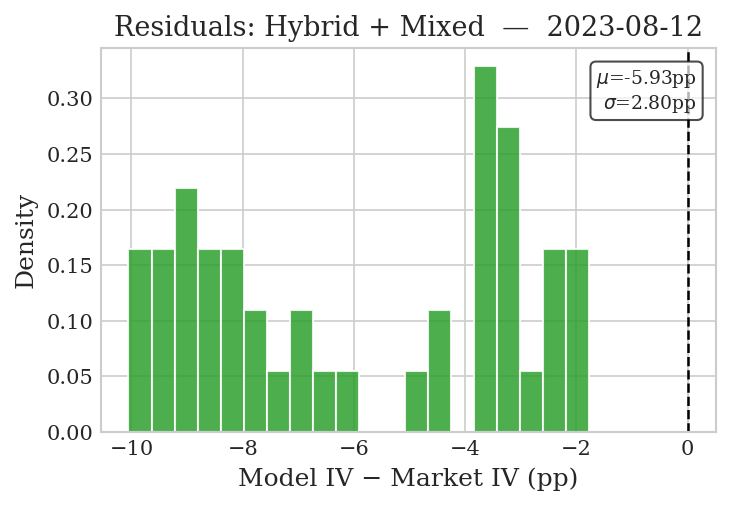
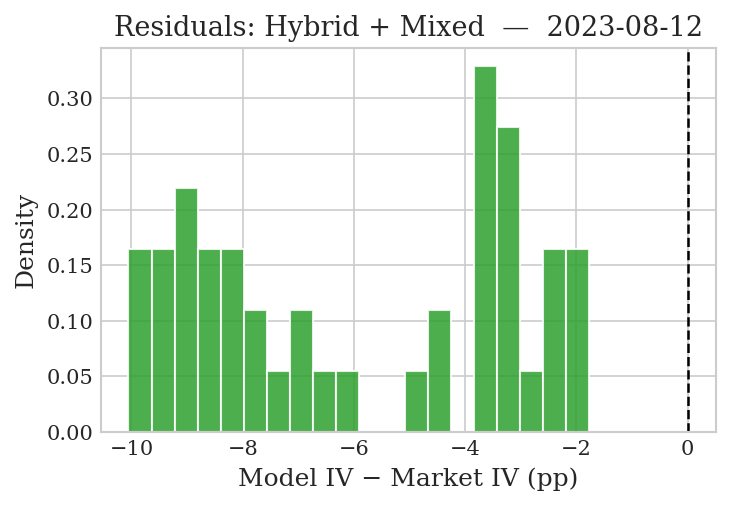
Update scripts, figures and tables with final thesis revisions
- generate_figures.py, inverse_options.py, run_all_calibrations.py: final
  post-defense refinements
- src/rbergomi/calibrator.py: minor calibration updates
- Results/calibration/figures/hybrid_mixed: updated residuals histograms
  for 3 dates (20220509, 20230812, 20240914)
- Results/calibration/latex_tables: updated baseline regime tables
  (baseline_high, baseline_low, baseline_medium)
- Results/inverse_options/comparison: updated delta put BS figure
- .gitignore: fix figures/ and comparison/ rules to root-level only
  (avoid blocking Results/calibration/figures/ and Results/inverse_options/comparison/)

Changed region(s): [[0.7836, 0.1188, 0.9644, 0.2376]]

diff --git a/inverse_options.py b/inverse_options.py
@@ -217,42 +217,100 @@ class ComparisonAnalyzer:
         self._save_fig(fig, 'delta_call_direct_vs_inverse')
 
     def plot_put_delta(self):
-        """Figure: Put Delta - Direct vs Inverse"""
+        """Figure 1.5: Put option prices and delta comparison (S on x-axis, K fixed).
+
+        Reproduces Figure 1.5 of the thesis: panel (a) shows P^USD and P^BTC as
+        functions of the spot price S; panel (b) compares Delta^USD (bounded at -1)
+        with Delta^BTC (which diverges as S -> 0), making the hedging asymmetry
+        immediately visible.
+        """
+        K      = 50_000
+        sigma  = 0.60
+        T      = 0.25       # 3 months
+        r      = 0.0
+        S_arr  = np.linspace(20_000, 100_000, 500)
+        scale  = 1e5        # multiply Delta^BTC so it is visible next to Delta^USD
+
+        # ── Prices ─────────────────────────────────────────────────────────
+        p_usd   = direct_put_price(S_arr, K, T, r, sigma)          # USD
+        p_btc   = p_usd / S_arr                                     # BTC
+
+        # ── Deltas ─────────────────────────────────────────────────────────
+        d_usd   = direct_put_delta(S_arr, K, r, sigma, T)           # USD delta
+        d_btc   = inverse_put_delta_from_price(S_arr, K, T, r, sigma)  # BTC delta
+
+        sigma_pct = int(sigma * 100)
         fig, axes = plt.subplots(1, 2, figsize=(14, 5))
 
-        # Panel A: Direct Put Delta
-        ax1 = axes[0]
-        for tau, label, ls, lw in zip(self.taus, self.tau_labels, self.linestyles, self.linewidths):
-            delta_vals = direct_put_delta(self.S, self.K_range, self.r, self.sigma, tau)
-            ax1.plot(self.K_range/1000, delta_vals, color=PALETTE['primary'], linestyle=ls, linewidth=lw, label=label)
+        # ── Panel (a): Prices ───────────────────────────────────────────────
+        ax1   = axes[0]
+        ax1_r = ax1.twinx()
 
-        ax1.set_xlabel(r'Strike $K$ (thousands USD)')
-        ax1.set_ylabel(r'Delta $\delta$')
-        ax1.set_title(r'Direct Put Delta: $\frac{\partial P^{\$}}{\partial S}$')
-        ax1.legend(loc='lower right', title='Maturity')
-        ax1.set_xlim([10, 40])
-        ax1.set_ylim([-2, 0.5])
+        ax1.plot(S_arr / 1000, p_usd / 1000,
+                 color=PALETTE['primary'], linewidth=2.5,
+                 label=r'Standard Put $P^{USD}$ (thousands USD)')
+        ax1_r.plot(S_arr / 1000, p_btc,
+                   color=PALETTE['tertiary'], linewidth=2.5, linestyle='--',
+                   label=r'Inverse Put $P^{BTC}$ (BTC)')
+
+        ax1.axvline(x=K / 1000, color=PALETTE['neutral'],
+                    linestyle='--', alpha=0.6, linewidth=1.2)
+        ax1.text(K / 1000 + 0.8, (p_usd / 1000).max() * 0.55,
+                 f'Strike K = ${K//1000}K',
+                 fontsize=9, color=PALETTE['neutral'])
+
+        ax1.set_xlabel(r'Spot Price $S$ (thousands USD)')
+        ax1.set_ylabel(r'$P^{USD}$ (thousands USD)', color=PALETTE['primary'])
+        ax1_r.set_ylabel(r'$P^{BTC}$ (BTC)',          color=PALETTE['tertiary'])
+        ax1.set_title(f'(a) Put Option Prices ($\\sigma={sigma_pct}\\%$, $T={T}$y)')
+        ax1.set_xlim([20, 100])
         ax1.grid(True, alpha=0.3)
-        ax1.axhline(y=0, color='black', linewidth=0.5)
-        ax1.axvline(x=self.S/1000, color=PALETTE['neutral'], linestyle='--', alpha=0.5)
 
-        # Panel B: Inverse Put Delta
+        lines1, labels1 = ax1.get_legend_handles_labels()
+        lines2, labels2 = ax1_r.get_legend_handles_labels()
+        ax1.legend(lines1 + lines2, labels1 + labels2, loc='upper right', fontsize=9)
+
+        # ── Panel (b): Deltas ───────────────────────────────────────────────
         ax2 = axes[1]
-        for tau, label, ls, lw in zip(self.taus, self.tau_labels, self.linestyles, self.linewidths):
-            delta_vals = inverse_put_delta(self.S, self.K_range, self.r, self.r_btc, self.sigma, tau)
-            ax2.plot(self.K_range/1000, delta_vals, color=PALETTE['tertiary'], linestyle=ls, linewidth=lw, label=label)
 
-        ax2.set_xlabel(r'Strike $K$ (thousands USD)')
-        ax2.set_ylabel(r'Delta $\delta$')
-        ax2.set_title(r'Inverse Put Delta: $\frac{\partial P^{\mathbb{B}}}{\partial S}$')
-        ax2.legend(loc='lower right', title='Maturity')
-        ax2.set_xlim([10, 40])
-        ax2.set_ylim([-2, 0.5])
+        ax2.plot(S_arr / 1000, d_usd,
+                 color=PALETTE['primary'], linewidth=2.5,
+                 label=r'Standard Put: $\Delta^{USD} = N(d_1) - 1$')
+        ax2.plot(S_arr / 1000, d_btc * scale,
+                 color=PALETTE['tertiary'], linewidth=2.5, linestyle='--',
+                 label=r'Inverse Put: $\Delta^{BTC} \times 10^5$')
+
+        ax2.axvline(x=K / 1000, color=PALETTE['neutral'],
+                    linestyle='--', alpha=0.6, linewidth=1.2)
+        ax2.axhline(y=-1, color=PALETTE['neutral'],
+                    linestyle=':', alpha=0.5, linewidth=1.0)
+
+        ax2.set_xlabel(r'Spot Price $S$ (thousands USD)')
+        ax2.set_ylabel('Delta')
+        ax2.set_title(f'(b) Put Option Delta ($\\sigma={sigma_pct}\\%$, $T={T}$y)')
+        ax2.legend(loc='lower right', fontsize=9)
+        ax2.set_xlim([20, 100])
         ax2.grid(True, alpha=0.3)
-        ax2.axhline(y=0, color='black', linewidth=0.5)
-        ax2.axvline(x=self.S/1000, color=PALETTE['neutral'], linestyle='--', alpha=0.5)
 
-        plt.tight_layout()
+        # Arrow annotation pointing to the diverging inverse delta
+        idx = 15                              # S ≈ 23 K
+        ax2.annotate(
+            r'$\Delta^{BTC}$ diverges as $S \to 0$',
+            xy=(S_arr[idx] / 1000, d_btc[idx] * scale),
+            xytext=(38, d_btc[idx] * scale * 0.65),
+            arrowprops=dict(arrowstyle='->', color=PALETTE['neutral'], lw=1.3),
+            fontsize=9,
+            bbox=dict(boxstyle='round,pad=0.3',
+                      facecolor='white', edgecolor=PALETTE['neutral'], alpha=0.85),
+        )
+
+        fig.subplots_adjust(wspace=0.45)
+
+        # Save to LaTeX folder (used directly by the thesis)
+        latex_path = Path("LaTeX/Graphs Chapter 1 & 2") / "fig3_delta_put_BS.png"
+        fig.savefig(latex_path, bbox_inches='tight', facecolor='white', dpi=300)
+
+        # Save to Results folder and close
         self._save_fig(fig, 'fig3_delta_put_BS')
 
     def plot_call_gamma(self):

diff --git a/run_all_calibrations.py b/run_all_calibrations.py
@@ -183,10 +183,42 @@ def save_csv(result_dict, date_str, method_name):
 
 
 # ── Generic model runner ─────────────────────────────────────────────────────
-def run_method(method_name, method_cfg, builder, snapshot_dates):
-    """Run one calibration method across all snapshot dates."""
+def run_method(method_name, method_cfg, builder, snapshot_dates, h_lb: float = 0.01):
+    """
+    Run one calibration method across all snapshot dates.
+
+    Parameters
+    ----------
+    h_lb : float
+        Lower bound for H.  Typical values:
+            0.01  — default (conservative, avoids extreme roughness)
+            0.001 — wide-H sensitivity analysis
+            0.0   — no effective lower bound (H free down to near 0)
+        Results are saved in a subfolder whose suffix encodes the bound:
+            0.01  → <method>              (no suffix)
+            0.001 → <method>_h001
+            0.0   → <method>_hfree
+    """
     label    = method_cfg.pop("label")
     maxiter  = method_cfg.pop("maxiter")
+
+    # ── Determine H bounds and output-folder suffix ──────────────────────────
+    # *** THIS IS THE SINGLE PLACE TO CHANGE THE H LOWER BOUND ***
+    # Pass a different --h-lb value on the command line (see argparse below).
+    if abs(h_lb - 1e-4) < 1e-9:
+        h_bounds_override = {"H": (1e-4, 0.49)}
+        suffix = "_hfree"
+        logger.info("  [hfree mode] H bounds: (1e-4, 0.49)")
+    elif abs(h_lb - 0.001) < 1e-9:
+        h_bounds_override = {"H": (0.001, 0.49)}
+        suffix = "_h001"
+        logger.info("  [wide-H mode] H bounds: (0.001, 0.49)")
+    else:
+        h_bounds_override = None   # uses DEFAULT_BOUNDS from calibrator.py (0.01)
+        suffix = ""
+        logger.info("  [default H] H bounds: (0.01, 0.49)")
+
+    method_name = method_name + suffix
 
     logger.info("\n" + "=" * 70)
     logger.info(f"  METHOD: {label}")
@@ -217,6 +249,7 @@ def run_method(method_name, method_cfg, builder, snapshot_dates):
                 maxiter=maxiter,
                 tol=0.5,
                 date=dt,
+                bounds=h_bounds_override,
             )
             elapsed = time.perf_counter() - t0
             logger.info(f"  H={result.H:.4f}  eta={result.eta:.3f}  "
@@ -258,7 +291,29 @@ if __name__ == "__main__":
                         help="Run Hybrid+Mixed only")
     parser.add_argument("--check-iv", action="store_true",
                         help="Only verify baseline ATM-IV regime classification, then exit")
+    parser.add_argument(
+        "--h-lb", type=str, default="0.01",
+        choices=["0.01", "0.001", "1e-4"],
+        help=(
+            "Lower bound for the Hurst exponent H during calibration.\n"
+            "  0.01  — default, conservative (results in tables/<method>/)\n"
+            "  0.001 — wide-H sensitivity  (results in tables/<method>_h001/)\n"
+            "  1e-4  — minimal lower bound (results in tables/<method>_hfree/)\n"
+            "The upper bound is always 0.49."
+        ),
+    )
+    # Keep --wide-h as a legacy alias for --h-lb 0.001
+    parser.add_argument("--wide-h", action="store_true",
+                        help="Legacy alias for --h-lb 0.001 (kept for backward compat).")
     args = parser.parse_args()
+
+    # Resolve h_lb value
+    if args.wide_h:
+        h_lb_value = 0.001
+    elif args.h_lb == "1e-4":
+        h_lb_value = 1e-4
+    else:
+        h_lb_value = float(args.h_lb)
 
     # If no flags, run all
     run_all = not (args.cholesky or args.hybrid_euler or args.hybrid_mixed)
@@ -310,7 +365,7 @@ if __name__ == "__main__":
         logger.info(f"\n[Step {step_i}] Running {method_name}...")
         cfg = METHODS[method_name].copy()  # copy so pop() doesn't mutate
         all_results[method_name] = run_method(
-            method_name, cfg, builder, snapshot_dates
+            method_name, cfg, builder, snapshot_dates, h_lb=h_lb_value
         )
 
     # ── Summary ──────────────────────────────────────────────────────────────

diff --git a/src/rbergomi/calibrator.py b/src/rbergomi/calibrator.py
@@ -181,7 +181,8 @@ class CalibrationResult:
         spot: Optional[float] = None,
         success: bool = True,
         method: str = "",
-        details: Optional[Dict] = None
+        details: Optional[Dict] = None,
+        bias: Optional[float] = None,
     ):
         self.H = H
         self.eta = eta
@@ -189,6 +190,7 @@ class CalibrationResult:
         self.xi = xi
         self.rmse = rmse
         self.mae = mae
+        self.bias = bias  # mean(model_IV - market_IV) in pp; None if not computed
         self.n_points = n_points
         self.n_evals = n_evals
         self.elapsed_seconds = elapsed_seconds
@@ -254,6 +256,7 @@ class CalibrationResult:
             "sigma_atm": self.sigma_atm,
             "rmse_pp": self.rmse,
             "mae_pp": self.mae,
+            "bias_pp": self.bias,
             "n_points": self.n_points,
             "n_evals": self.n_evals,
             "time_seconds": self.elapsed_seconds,
@@ -895,6 +898,7 @@ class Calibrator:
             H=H_opt, eta=eta_opt, rho=rho_opt, xi=xi_repr,
             rmse=final_loss["rmse"],
             mae=final_loss["mae"],
+            bias=final_loss.get("bias"),
             n_points=n_points,
             n_evals=self._eval_count,
             elapsed_seconds=elapsed,
@@ -1081,6 +1085,7 @@ class Calibrator:
                 H=H_opt, eta=eta_opt, rho=rho_opt, xi=xi_0,
                 rmse=final_loss["rmse"],
                 mae=final_loss["mae"],
+                bias=final_loss.get("bias"),
                 n_points=n_slice,
                 n_evals=self._eval_count,
                 elapsed_seconds=elapsed,

diff --git a/Results/calibration/latex_tables/baseline_high.tex b/Results/calibration/latex_tables/baseline_high.tex
@@ -3,7 +3,7 @@
 % ──────────────────────────────────────────────────────────────────
 \begin{tabular}{l l r r r r r}
   \toprule
-  \textbf{Date} & \textbf{Method} & \textbf{$H$} & \textbf{$\eta$} & \textbf{$\rho$} & \textbf{RMSE} & \textbf{Time} \\
+  \textbf{Date} & \textbf{Method} & \textbf{$H$} & \textbf{$\eta$} & \textbf{$\rho$} & \textbf{Unw.\ RMSE} & \textbf{Time} \\
   \midrule
   Post-LUNA recovery & Chol.+Euler & 0,0245 & 3,587 & 0,000 & 102,62\,pp & 1,9\,min \\
    & Hyb.+Euler & 0,0594 & 3,633 & -0,665 & 65,97\,pp & 2,2\,min \\

diff --git a/Results/calibration/latex_tables/baseline_low.tex b/Results/calibration/latex_tables/baseline_low.tex
@@ -3,7 +3,7 @@
 % ──────────────────────────────────────────────────────────────────
 \begin{tabular}{l l r r r r r}
   \toprule
-  \textbf{Date} & \textbf{Method} & \textbf{$H$} & \textbf{$\eta$} & \textbf{$\rho$} & \textbf{RMSE} & \textbf{Time} \\
+  \textbf{Date} & \textbf{Method} & \textbf{$H$} & \textbf{$\eta$} & \textbf{$\rho$} & \textbf{Unw.\ RMSE} & \textbf{Time} \\
   \midrule
   Calm summer 2023 & Chol.+Euler & 0,0835 & 2,228 & -0,306 & 3,10\,pp & 1,9\,min \\
    & Hyb.+Euler & 0,1312 & 2,308 & -0,194 & 2,97\,pp & 37\,s \\

diff --git a/Results/calibration/latex_tables/baseline_medium.tex b/Results/calibration/latex_tables/baseline_medium.tex
@@ -3,7 +3,7 @@
 % ──────────────────────────────────────────────────────────────────
 \begin{tabular}{l l r r r r r}
   \toprule
-  \textbf{Date} & \textbf{Method} & \textbf{$H$} & \textbf{$\eta$} & \textbf{$\rho$} & \textbf{RMSE} & \textbf{Time} \\
+  \textbf{Date} & \textbf{Method} & \textbf{$H$} & \textbf{$\eta$} & \textbf{$\rho$} & \textbf{Unw.\ RMSE} & \textbf{Time} \\
   \midrule
   Crypto winter & Chol.+Euler & 0,2318 & 3,805 & -0,787 & 20,29\,pp & 2,1\,min \\
    & Hyb.+Euler & 0,3171 & 2,692 & -0,990 & 58,10\,pp & 26\,s \\

diff --git a/generate_figures.py b/generate_figures.py
@@ -298,10 +298,6 @@ def plot_residuals_hist(
     ax.set_xlabel("Model IV − Market IV (pp)")
     ax.set_ylabel("Density")
     ax.set_title(f"Residuals: {METHOD_LABELS[method]}  —  {date_str[:4]}-{date_str[4:6]}-{date_str[6:]}")
-    mu, sd = np.nanmean(resid), np.nanstd(resid)
-    ax.text(0.97, 0.95, f"$\\mu$={mu:.2f}pp\n$\\sigma$={sd:.2f}pp",
-            transform=ax.transAxes, ha="right", va="top", fontsize=9,
-            bbox=dict(boxstyle="round,pad=0.3", fc="white", alpha=0.7))
     fig.tight_layout()
     fname = out_dir / f"residuals_hist_{date_str}_{method}.png"
     fig.savefig(fname, dpi=150, bbox_inches="tight")
